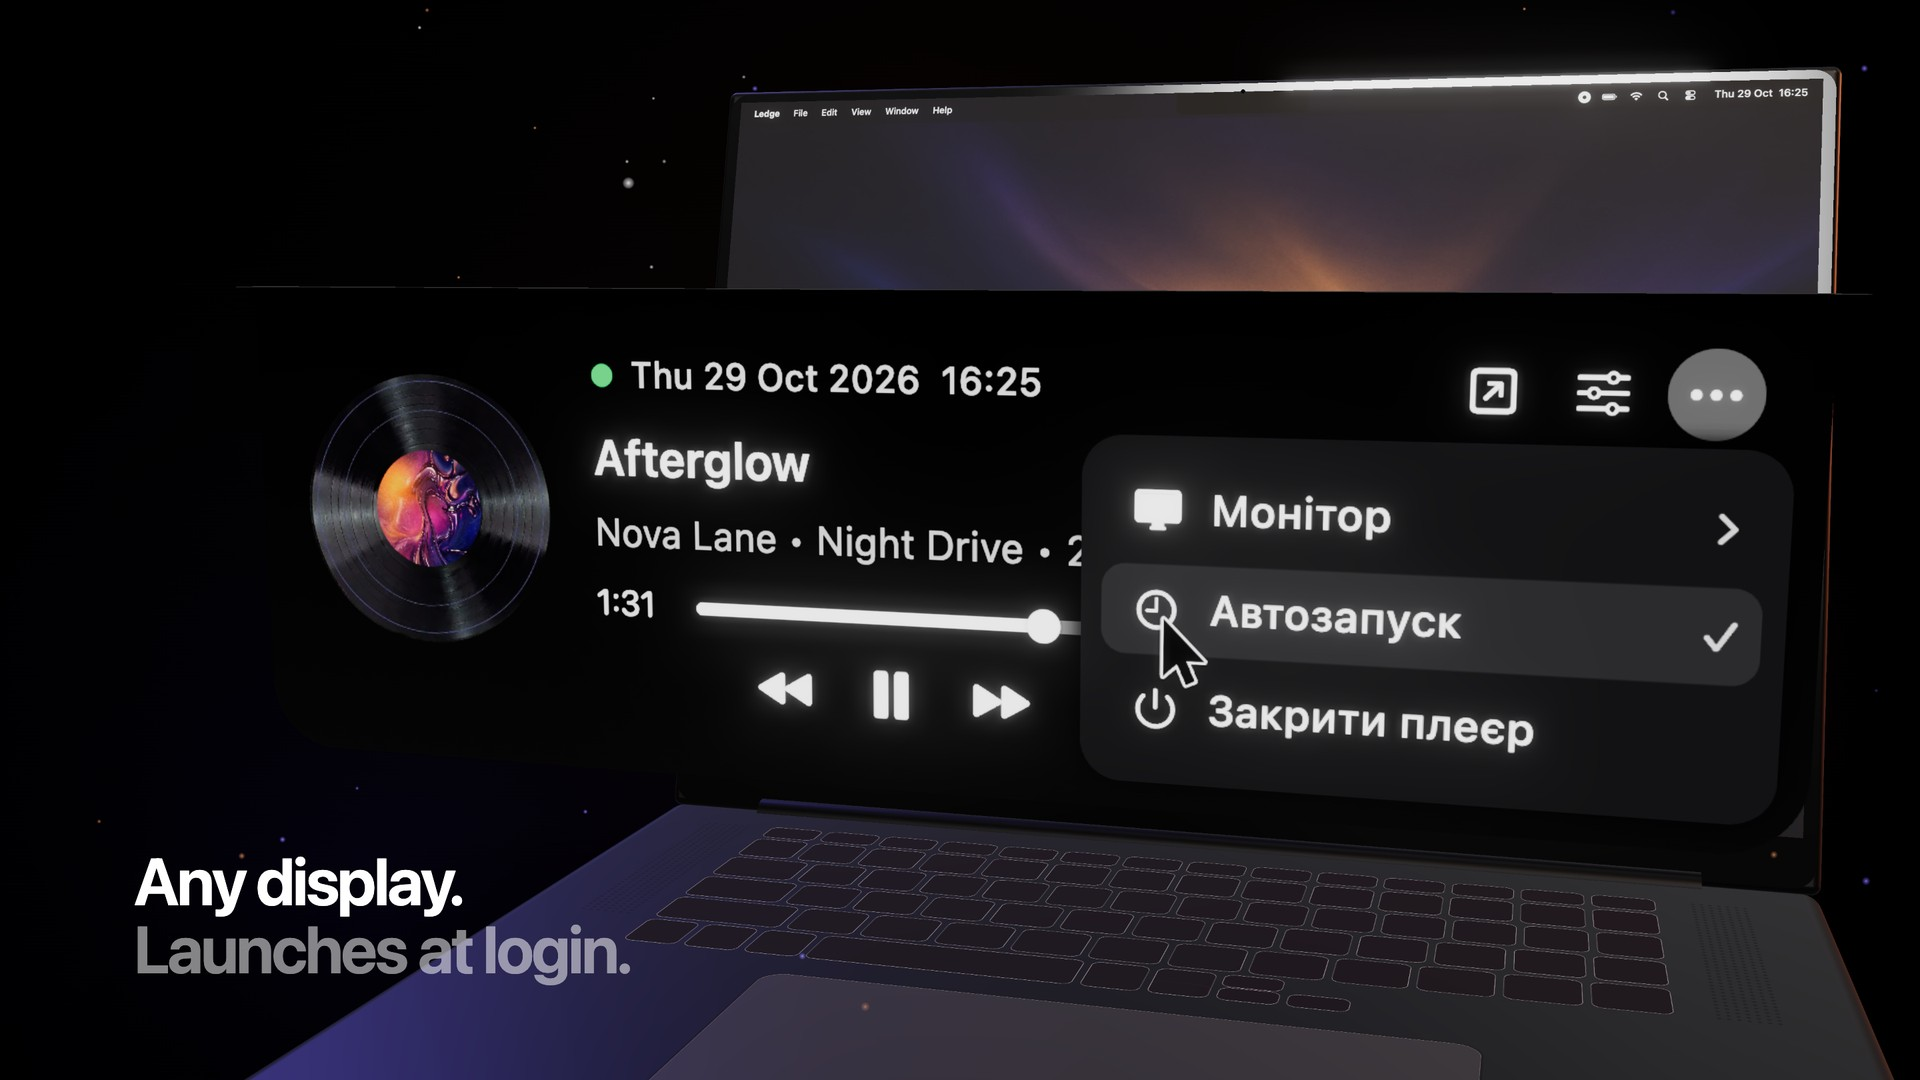
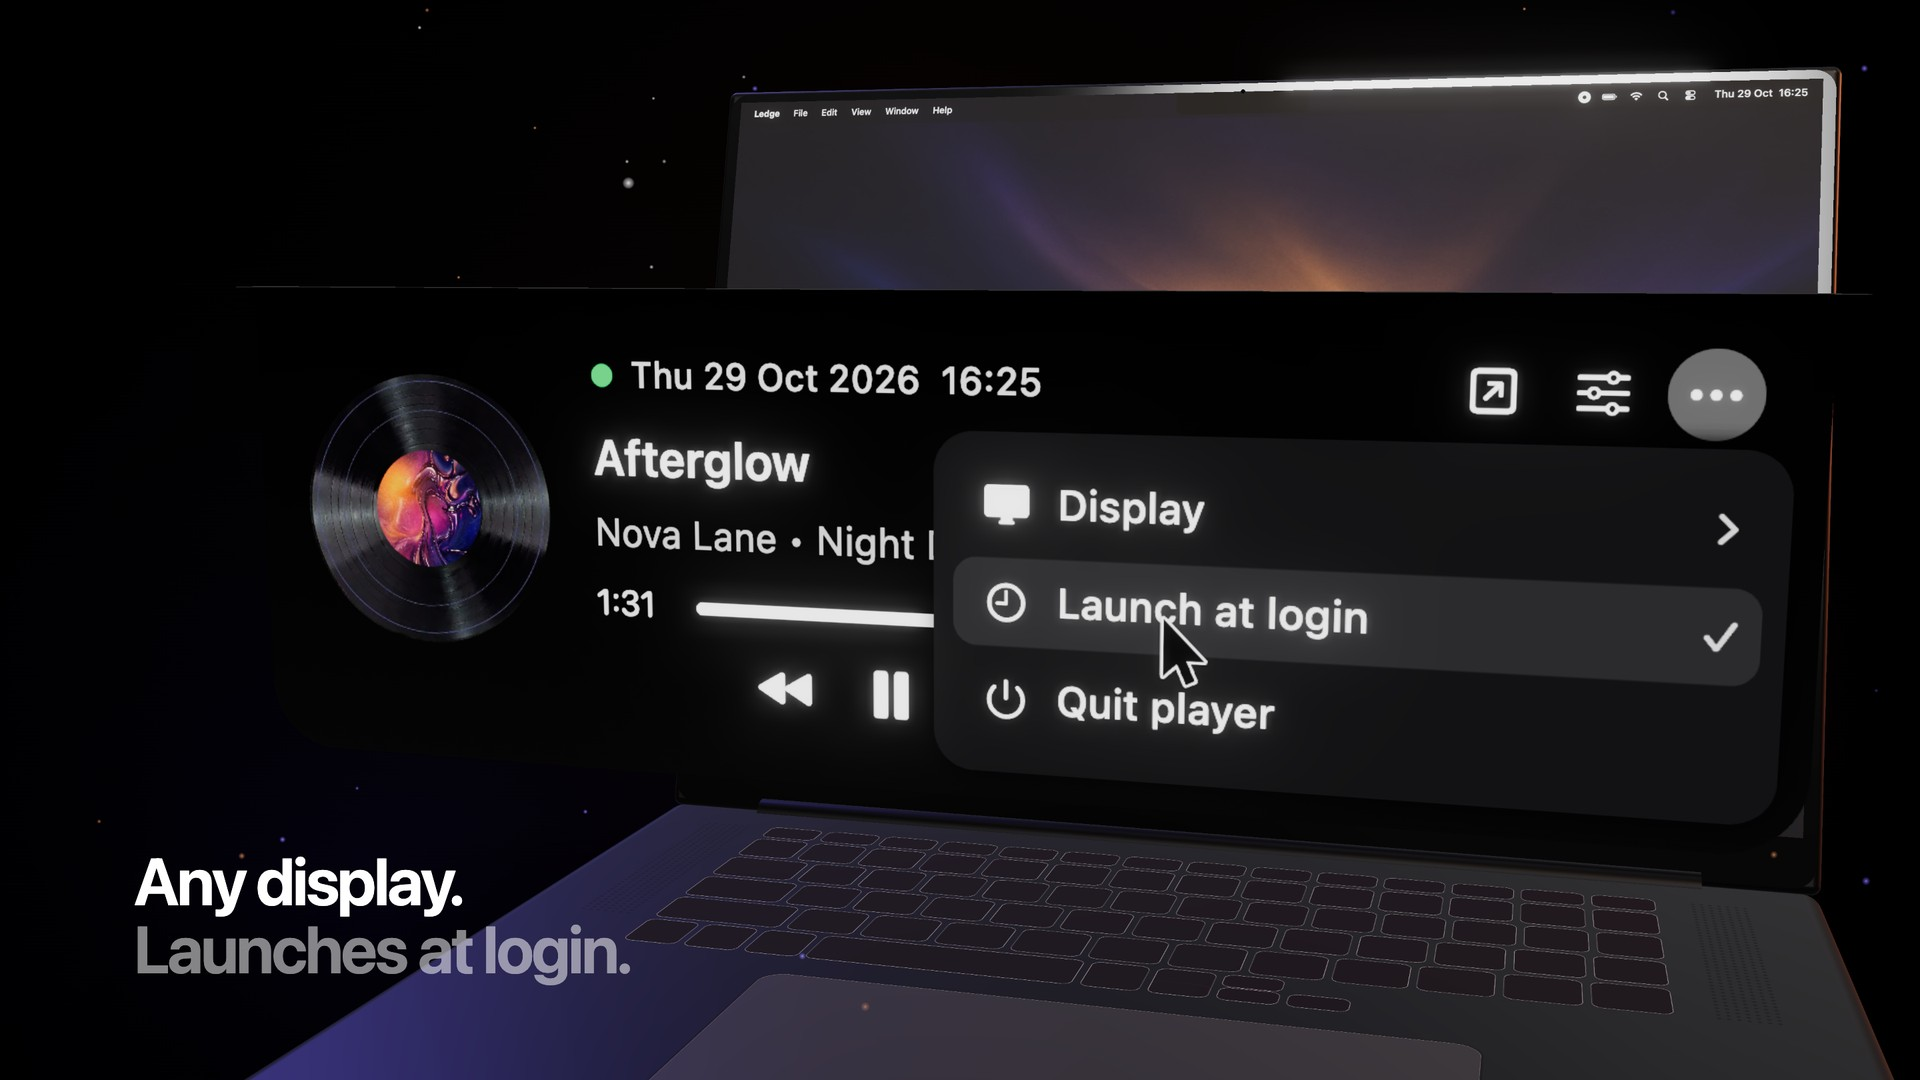
Say Google Chrome is required and stop the download text from clipping.

Changed region(s): [[0.4688, 0.3972, 0.8125, 0.7028]]

diff --git a/index.html b/index.html
@@ -50,8 +50,8 @@
       <ul>
         <li><span>Version</span> 1.0</li>
         <li><span>Price</span> Free</li>
-        <li><span>System</span> macOS 13 or later</li>
-        <li><span>Mac</span> Apple silicon</li>
+        <li><span>System</span> macOS 13 or later, Apple silicon</li>
+        <li><span>Needs</span> Google Chrome</li>
       </ul>
     </section>
 
@@ -97,7 +97,7 @@
       <div class="get__copy">
         <p class="eyebrow"><span class="dot" aria-hidden="true"></span> Version 1.0</p>
         <h2>Take it. It’s free.</h2>
-        <p class="lead">Unzip Ledge and move it to Applications. YouTube Music opens in its own Chrome window, so Chrome needs to be installed.</p>
+        <p class="lead">Google Chrome is required. Ledge will not play without it. YouTube Music opens in its own Chrome window.</p>
         <a class="btn btn--lg" href="download/Ledge-1.0.zip">Download Ledge 1.0</a>
         <p class="fine">Zip, 1.4 MB. Menus are in Ukrainian.</p>
       </div>
@@ -120,7 +120,7 @@
           <span>3</span>
           <div>
             <strong>Sign in once</strong>
-            <p>The first play opens YouTube Music in Chrome. After you sign in, the notch takes over.</p>
+            <p>The first play opens YouTube Music in Google Chrome. Sign in there once, and the notch takes over.</p>
           </div>
         </li>
       </ol>

diff --git a/site.css b/site.css
@@ -248,11 +248,29 @@ h2 { font-size: clamp(36px, 4vw, 64px); }
 
 .get {
   display: grid;
-  grid-template-columns: 1.1fr 0.9fr;
-  gap: clamp(28px, 5vw, 80px);
-  max-width: 1200px;
+  grid-template-columns: minmax(0, 1fr);
+  gap: 36px;
+  max-width: 1100px;
   margin: 0 auto;
   padding: 72px var(--pad) 88px;
+}
+
+.get__copy {
+  min-width: 0;
+  max-width: 36rem;
+}
+
+.get .lead {
+  max-width: 100%;
+  margin-bottom: 22px;
+  overflow-wrap: break-word;
+}
+
+@media (min-width: 960px) {
+  .get {
+    grid-template-columns: minmax(0, 36rem) minmax(16rem, 1fr);
+    gap: 64px;
+  }
 }
 
 .fine {
@@ -312,7 +330,7 @@ h2 { font-size: clamp(36px, 4vw, 64px); }
   .beat,
   .beat--flip,
   .get {
-    grid-template-columns: 1fr;
+    grid-template-columns: minmax(0, 1fr);
   }
 
   .beat--flip .beat__text { order: 0; }
